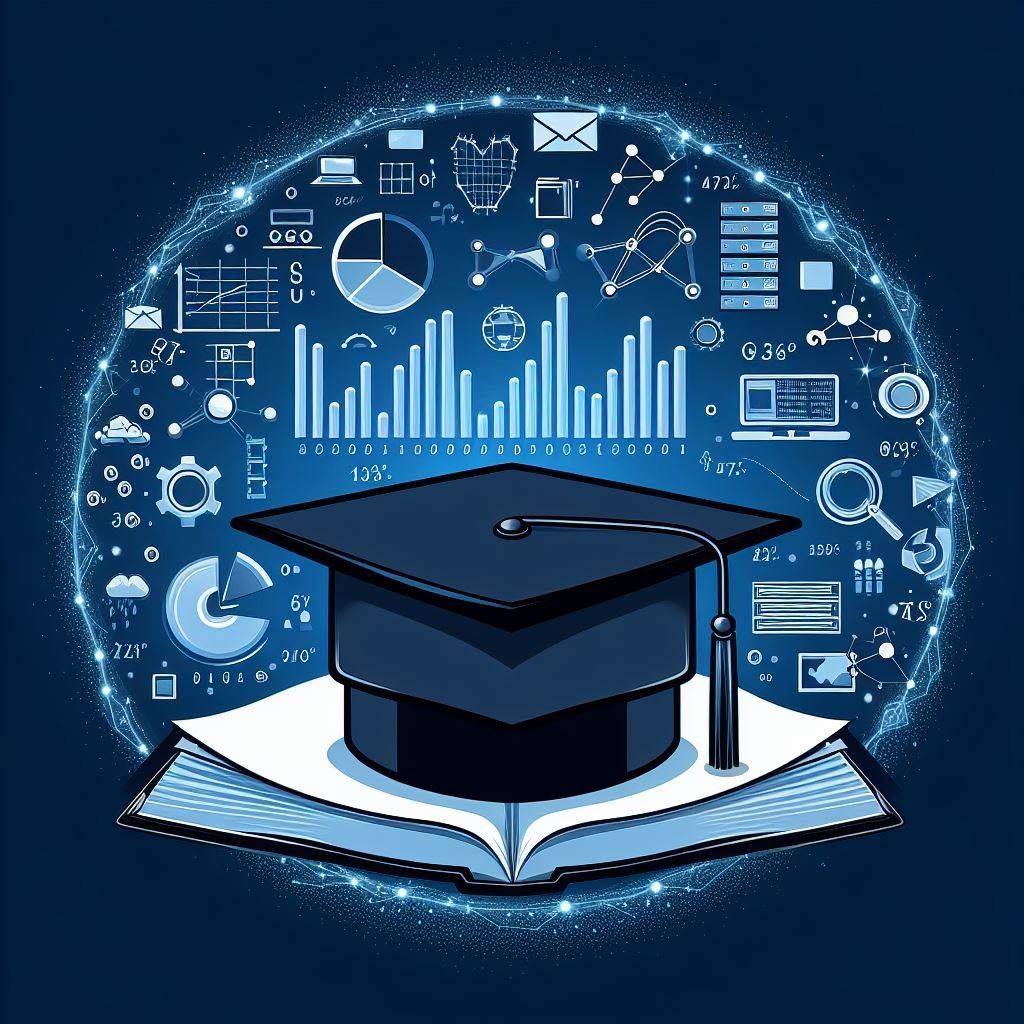
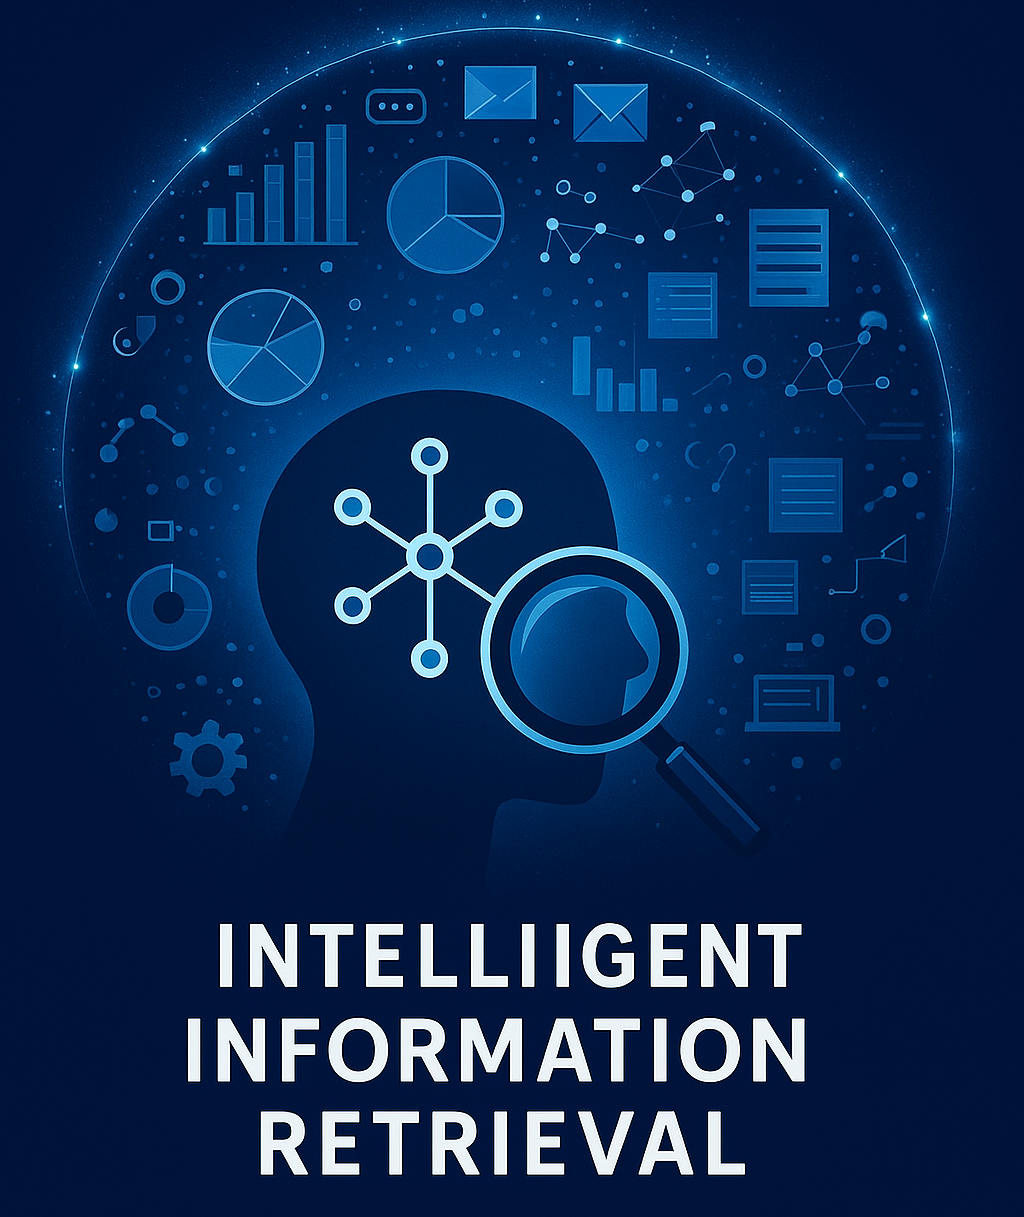
fix: correct mailto link and update hero image

diff --git a/index.html b/index.html
@@ -271,7 +271,8 @@ This course is primarily offered in a classroom setting, held twice weekly on Su
                 <a href="mailto:shakery@ut.ac.ir" class="font-bold text-blue-900">shakery@ut.ac.ir</a> - Dr. Azadeh Shakery, Instructor
               </li>
               <li>
-                <a href="mailto:Samanehrad94@gmail.com class="font-bold text-blue-900">vahyd@live.com</a> - Samaneh Peymani Rad, Chief Teaching Assistant
+               <a href="mailto:Samanehrad94@gmail.com" class="font-bold text-blue-900">samanehrad94@gmail.com</a> - Samaneh Peymani Rad, Chief Teaching Assistant
+
               </li>
             </ul>      
         </p>
